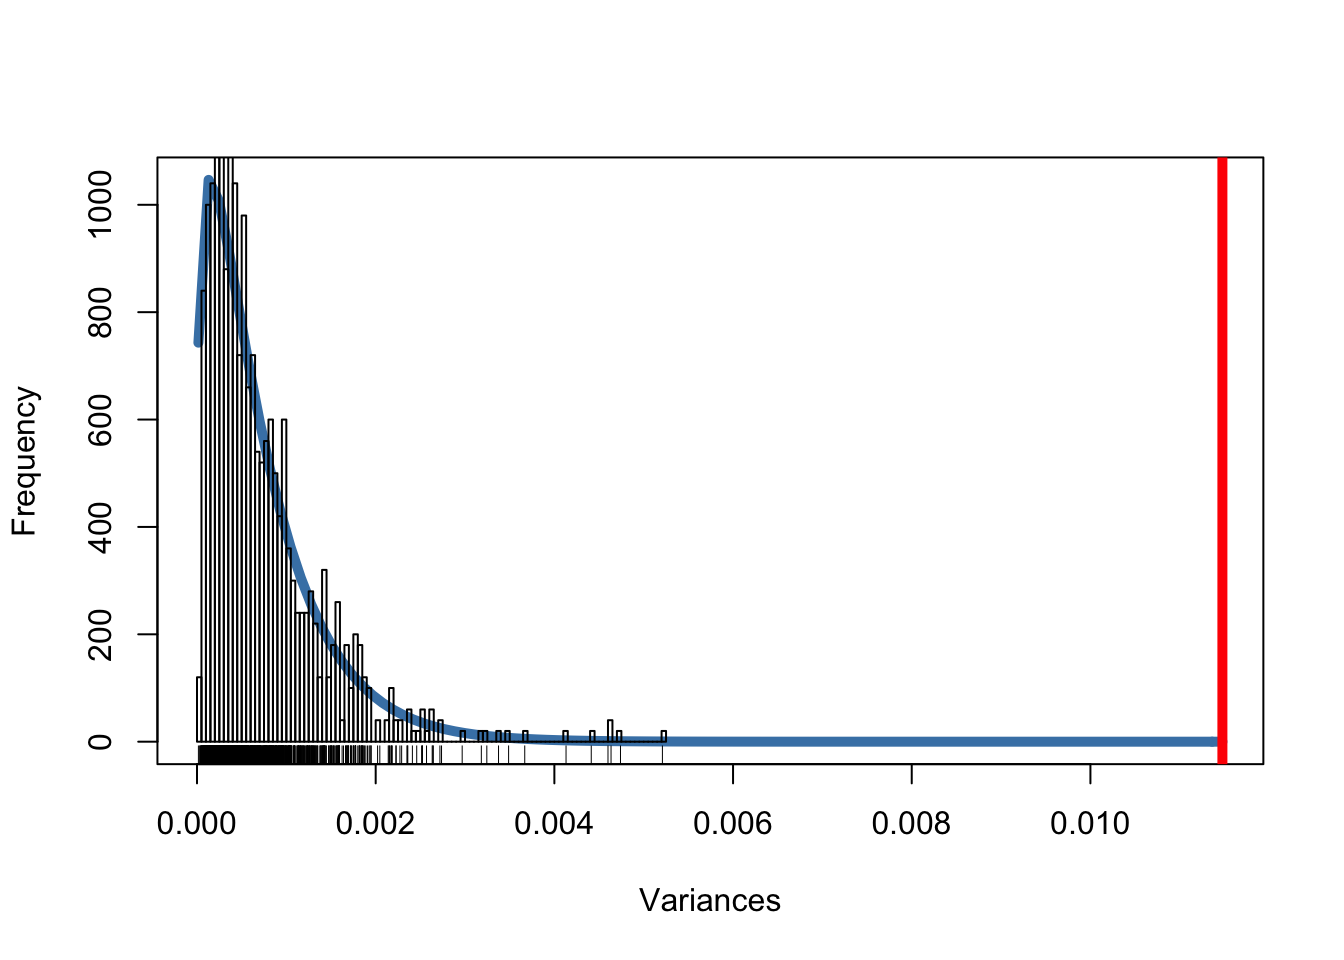
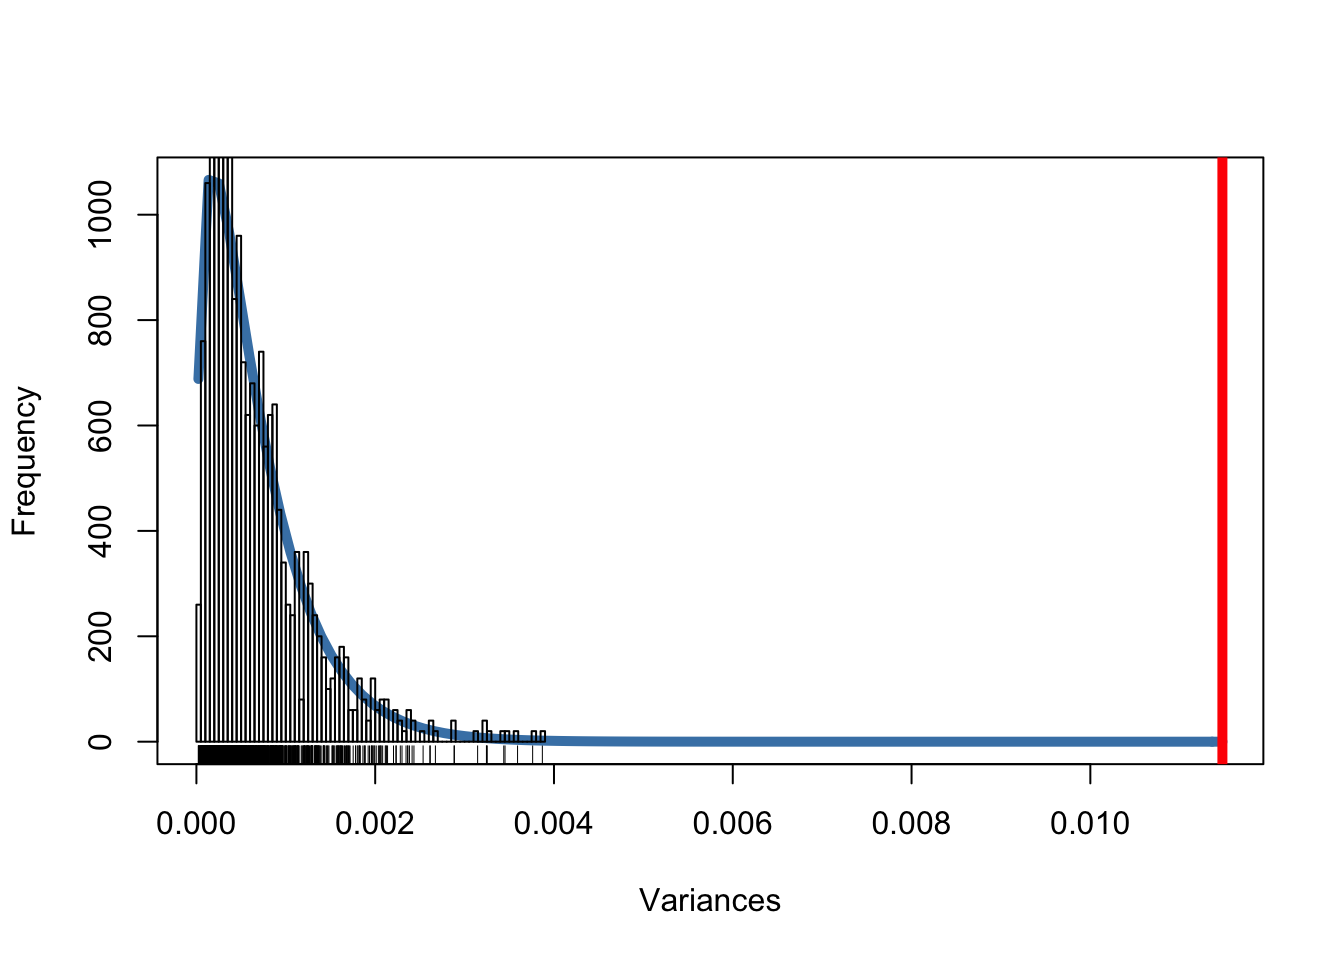
update docu

diff --git a/docs/articles/Introduction.html b/docs/articles/Introduction.html
@@ -191,13 +191,14 @@ Figure 3: Workflow describing the input and output of the myTAI package. The myT
 <div id="genomic-phylostratography-based-gene-age-inference" class="section level3">
 <h3 class="hasAnchor">
 <a href="#genomic-phylostratography-based-gene-age-inference" class="anchor"></a>Genomic phylostratography based gene age inference</h3>
-<p>As intensely discussed in the past years (<a href="http://www.sciencedirect.com/science/article/pii/S016895251300111X">Capra et al., 2013</a>; <a href="http://www.nature.com/nmeth/journal/v13/n5/pdf/nmeth.3830.pdf">Altenhoff et al., 2016</a>; <a href="http://gbe.oxfordjournals.org/content/early/2016/06/03/gbe.evw113">Liebeskind et al., 2016</a>), gene age inference is not a trivial task and might be biased in some currently existing approaches (<a href="http://gbe.oxfordjournals.org/content/early/2016/06/03/gbe.evw113">Liebeskind et al., 2016</a>; (Yin et al., 2018)[<a href="https://academic.oup.com/bib/article-lookup/doi/10.1093/bib/bby074" class="uri">https://academic.oup.com/bib/article-lookup/doi/10.1093/bib/bby074</a>]; (Casola 2018)[<a href="https://academic.oup.com/gbe/article/10/11/2906/5140197" class="uri">https://academic.oup.com/gbe/article/10/11/2906/5140197</a>].</p>
+<p>As intensely discussed in the past years (<a href="http://www.sciencedirect.com/science/article/pii/S016895251300111X">Capra et al., 2013</a>; <a href="http://www.nature.com/nmeth/journal/v13/n5/pdf/nmeth.3830.pdf">Altenhoff et al., 2016</a>; <a href="http://gbe.oxfordjournals.org/content/early/2016/06/03/gbe.evw113">Liebeskind et al., 2016</a>), gene age inference is not a trivial task and might be biased in some currently existing approaches (<a href="http://gbe.oxfordjournals.org/content/early/2016/06/03/gbe.evw113">Liebeskind et al., 2016</a>; <a href="https://academic.oup.com/bib/article-lookup/doi/10.1093/bib/bby074">Yin et al., 2018</a>; <a href="https://academic.oup.com/gbe/article/10/11/2906/5140197">Casola 2018</a>.</p>
 <p>In particular, Moyers &amp; Zhang argue that <a href="http://www.sciencedirect.com/science/article/pii/S0168952507002995">genomic phylostratigraphy</a> (a prominent BLAST based gene age inference method)</p>
 <ol style="list-style-type: decimal">
 <li><p>underestimates gene age for a considerable fraction of genes,</p></li>
 <li><p>is biased for rapidly evolving proteins which are short, and/or their most conserved block of sites is small, and</p></li>
-<li><p>these biases create spurious nonuniform distributions of various gene properties among age groups, many of which cannot be predicted a priori (<a href="http://mbe.oxfordjournals.org/content/32/1/258.long">Moyers &amp; Zhang, 2015</a>; <a href="http://mbe.oxfordjournals.org/content/33/5/1245">Moyers &amp; Zhang, 2016</a>; <a href="http://gbe.oxfordjournals.org/content/early/2016/06/03/gbe.evw113">Liebeskind et al., 2016</a>). However, these arguments were based on simulated data and were inconclusive due to <a href="http://mbe.oxfordjournals.org/content/33/11/3031.full?etoc">errors in their analyses</a>. Furthermore, <a href="https://academic.oup.com/mbe/article-lookup/doi/10.1093/molbev/msw284">Domazet-Loso et al., 2017</a> provide convincing evidence that there is <strong>no</strong> phylostratigraphic bias. As a response, <a href="https://academic.oup.com/gbe/article/9/6/1519/3867914">Moyers &amp; Zhang, 2017</a> recently published a counter-study stating that a phylostratigraphic trend claimed by <a href="https://academic.oup.com/mbe/article-lookup/doi/10.1093/molbev/msw284">Domazet-Loso et al., 2017</a> to be robust to error disappears when genes likely to be error-resistant are analyzed. <a href="https://academic.oup.com/gbe/article/9/6/1519/3867914">Moyers &amp; Zhang, 2017</a> further suggest a more robust methodology for controlling for the effects of error by first restricting to those genes which can be simulated and then removing those genes which, through simulation, have been shown to be error-prone (see also <a href="https://academic.oup.com/gbe/article/10/8/2037/5061555">Moyers &amp; Zhang, 2018</a>).</p></li>
+<li><p>these biases create spurious nonuniform distributions of various gene properties among age groups, many of which cannot be predicted a priori (<a href="http://mbe.oxfordjournals.org/content/32/1/258.long">Moyers &amp; Zhang, 2015</a>; <a href="http://mbe.oxfordjournals.org/content/33/5/1245">Moyers &amp; Zhang, 2016</a>; <a href="http://gbe.oxfordjournals.org/content/early/2016/06/03/gbe.evw113">Liebeskind et al., 2016</a>).</p></li>
 </ol>
+<p>However, these arguments were based on simulated data and were inconclusive due to <a href="http://mbe.oxfordjournals.org/content/33/11/3031.full?etoc">errors in their analyses</a>. Furthermore, <a href="https://academic.oup.com/mbe/article-lookup/doi/10.1093/molbev/msw284">Domazet-Loso et al., 2017</a> provide convincing evidence that there is <strong>no</strong> phylostratigraphic bias. As a response, <a href="https://academic.oup.com/gbe/article/9/6/1519/3867914">Moyers &amp; Zhang, 2017</a> recently published a counter-study stating that a phylostratigraphic trend claimed by <a href="https://academic.oup.com/mbe/article-lookup/doi/10.1093/molbev/msw284">Domazet-Loso et al., 2017</a> to be robust to error disappears when genes likely to be error-resistant are analyzed. <a href="https://academic.oup.com/gbe/article/9/6/1519/3867914">Moyers &amp; Zhang, 2017</a> further suggest a more robust methodology for controlling for the effects of error by first restricting to those genes which can be simulated and then removing those genes which, through simulation, have been shown to be error-prone (see also <a href="https://academic.oup.com/gbe/article/10/8/2037/5061555">Moyers &amp; Zhang, 2018</a>).</p>
 <p>In general, an objective benchmarking set representing the tree of life is still missing and therefore any procedure aiming to quantify gene ages will be biased to some degree. Based on this debate a recent study suggested to perform gene age inference by combining several common orthology inference algorithms to create gene age datasets and then characterize the error around each age-call on a per-gene and per-algorithm basis. Using this approach systematic error was found to be a large factor in estimating gene age, suggesting that simple consensus algorithms are not enough to give a reliable point estimate (<a href="http://gbe.oxfordjournals.org/content/early/2016/06/03/gbe.evw113">Liebeskind et al., 2016</a>). This was also observed by <a href="https://academic.oup.com/gbe/article/10/8/2037/5061555">Moyers &amp; Zhang, 2018</a>) when running alternative tools such as <code>PSIBLAST</code>, <code>HMMER</code>, <code>OMA</code>, etc. However, by generating a consensus gene age and quantifying the possible error in each workflow step, <a href="http://gbe.oxfordjournals.org/content/early/2016/06/03/gbe.evw113">Liebeskind et al., 2016</a> provide a very useful <a href="http://geneages.org/">database</a> of consensus gene ages for a variety of genomes.</p>
 <p>Alternatively, <a href="https://bib.oxfordjournals.org/content/early/2016/04/20/bib.bbw034.full">Stephen Smith, 2016</a> argues that <em>de novo</em> gene birth/death and gene family expansion/contraction studies should avoid drawing direct inferences of evolutionary relatedness from measures of sequence similarity alone, and should instead, where possible, use more rigorous phylogeny-based methods. For this purpose, I recommend researchers to consult the <a href="http://orthology.phylomedb.org/">phylomedb database</a> to retrieve phylogeny-based gene orthology relationships and use these age estimates in combination with <code>myTAI</code>. Alternatively, users might find the simulation based removal approach propsed by <a href="https://academic.oup.com/gbe/article/10/8/2037/5061555">Moyers &amp; Zhang, 2018</a> more suitable.</p>
 <p>Evidently, these advancements in gene age research are very recent and gene age inference is a very young and active field of genomic research. Therefore, many more studies need to address the robust and realistic inference of gene age and a community standard is still missing.</p>

diff --git a/docs/articles/Intermediate.html b/docs/articles/Intermediate.html
@@ -154,7 +154,7 @@
 <pre><code>#&gt; Plot signature: ' TAI ' and test statistic: ' FlatLineTest '.</code></pre>
 <p><img src="Intermediate_files/figure-html/unnamed-chunk-4-1.png" width="672"></p>
 <pre><code>#&gt;   Zygote Quadrant Globular    Heart  Torpedo     Bent   Mature 
-#&gt; 3.450701 3.469164 3.566710 3.540681 3.544947 3.578820 3.471897</code></pre>
+#&gt; 3.573799 3.547242 3.532720 3.523343 3.492377 3.528640 3.555581</code></pre>
 <pre><code>  Zygote Quadrant Globular    Heart  Torpedo     Bent   Mature 
 3.543700 3.573999 3.554707 3.543376 3.582905 3.562813 3.523409 </code></pre>
 <p>Visualization:</p>
@@ -165,17 +165,17 @@
 <p>Now we investigate the variance of the two observed patterns.</p>
 <pre><code>#&gt; [1] 0.01147725</code></pre>
 <pre><code>[1] 0.01147725</code></pre>
-<pre><code>#&gt; [1] 0.002725079</code></pre>
+<pre><code>#&gt; [1] 0.0006777134</code></pre>
 <pre><code>[1] 0.0004102549</code></pre>
 <p>We observe that the variance of the randomly assigned TAI profile is much smaller than the variance of the correctly assigned TAI profile. Here we use the variance to quantify the <em>flatness</em> of a given TAI profile. In theory the variance of a perfect flat line would be zero. So any TAI profile that is close to zero would resemble a flat line. But how exactly are the variances of randomly assigned TAI profiles distributed? For this purpose the <code><a href="../reference/bootMatrix.html">bootMatrix()</a></code> function was implemented.</p>
 <p>The <code><a href="../reference/bootMatrix.html">bootMatrix()</a></code> takes an PhyloExpressionSet or DivergenceExpressionSet as input and computes N <code>TAI</code> or <code>TDI</code> profiles based on randomly assigned Phylostrata or Divergence-Strata.</p>
 <pre><code>#&gt;     Zygote Quadrant Globular    Heart  Torpedo     Bent   Mature
-#&gt; 1 3.546209 3.552825 3.552252 3.541355 3.530106 3.501198 3.439385
-#&gt; 2 3.458033 3.480752 3.445897 3.468816 3.461206 3.440613 3.416566
-#&gt; 3 3.463467 3.458411 3.450573 3.454815 3.453353 3.492385 3.569906
-#&gt; 4 3.486530 3.475289 3.477020 3.484508 3.489855 3.505846 3.444443
-#&gt; 5 3.454518 3.457321 3.447797 3.446547 3.467576 3.519928 3.554155
-#&gt; 6 3.508826 3.521659 3.531100 3.521467 3.507135 3.518785 3.619562</code></pre>
+#&gt; 1 3.457841 3.454347 3.465372 3.462823 3.464204 3.495709 3.551371
+#&gt; 2 3.559291 3.610300 3.618408 3.607326 3.622297 3.621399 3.551616
+#&gt; 3 3.542132 3.548672 3.567723 3.548037 3.518193 3.483869 3.489059
+#&gt; 4 3.498439 3.489628 3.521265 3.514993 3.505429 3.485693 3.549562
+#&gt; 5 3.591883 3.577086 3.591379 3.622009 3.586577 3.582436 3.631666
+#&gt; 6 3.419151 3.433988 3.491538 3.508965 3.508631 3.491937 3.408389</code></pre>
 <pre><code>    Zygote Quadrant Globular    Heart  Torpedo     Bent   Mature
 1 3.578000 3.577732 3.552230 3.556756 3.555627 3.553580 3.510978
 2 3.590339 3.564544 3.589012 3.598754 3.583721 3.597553 3.633530
@@ -213,12 +213,12 @@ fitdistrplus<span class="op">::</span><span class="kw"><a href="https://www.rdoc
 <p><img src="Intermediate_files/figure-html/unnamed-chunk-12-1.png" width="672"></p>
 <pre><code>#&gt; summary statistics
 #&gt; ------
-#&gt; min:  1.565253e-05   max:  0.005209243 
-#&gt; median:  0.0005350955 
-#&gt; mean:  0.0007231473 
-#&gt; estimated sd:  0.0006457556 
-#&gt; estimated skewness:  2.343373 
-#&gt; estimated kurtosis:  11.8928</code></pre>
+#&gt; min:  2.229218e-05   max:  0.003869915 
+#&gt; median:  0.0005069141 
+#&gt; mean:  0.0006814518 
+#&gt; estimated sd:  0.0005829784 
+#&gt; estimated skewness:  1.853794 
+#&gt; estimated kurtosis:  7.677481</code></pre>
 <p>Based on the observation that a gamma distribution is a suitable fit for <code>variance_vector</code>, we can now estimate the parameters of the gamma distribution that fits the data.</p>
 <div class="sourceCode"><pre class="sourceCode r"><code class="sourceCode r"><span class="co"># estimate the parameters: shape and rate using 'moment matching estimation'</span>
 gamma_MME &lt;-<span class="st"> </span>fitdistrplus<span class="op">::</span><span class="kw"><a href="https://www.rdocumentation.org/packages/fitdistrplus/topics/fitdist">fitdist</a></span>(variance_vector,<span class="dt">distr =</span> <span class="st">"gamma"</span>, <span class="dt">method =</span> <span class="st">"mme"</span>)
@@ -248,7 +248,7 @@ histogram &lt;-<span class="st"> </span><span class="kw"><a href="https://www.rd
 <p>Using the gamma distribution with estimated parameters the corresponding p-value of <code>var_real</code> can be computed.</p>
 <div class="sourceCode"><pre class="sourceCode r"><code class="sourceCode r"><span class="co"># p-value of var_real</span>
 <span class="kw"><a href="https://www.rdocumentation.org/packages/stats/topics/GammaDist">pgamma</a></span>(var_real, <span class="dt">shape =</span> shape,<span class="dt">rate =</span> rate, <span class="dt">lower.tail =</span> <span class="ot">FALSE</span>)</code></pre></div>
-<pre><code>#&gt; [1] 5.341549e-09</code></pre>
+<pre><code>#&gt; [1] 3.582961e-10</code></pre>
 <p>Hence, the variance of the correct TAI profile significantly deviates from random TAI profiles and this allows us to assume that the underlying TAI profile captures a real evolutionary signal.</p>
 </div>
 <div id="using-the-flatlinetest-function" class="section level3">
